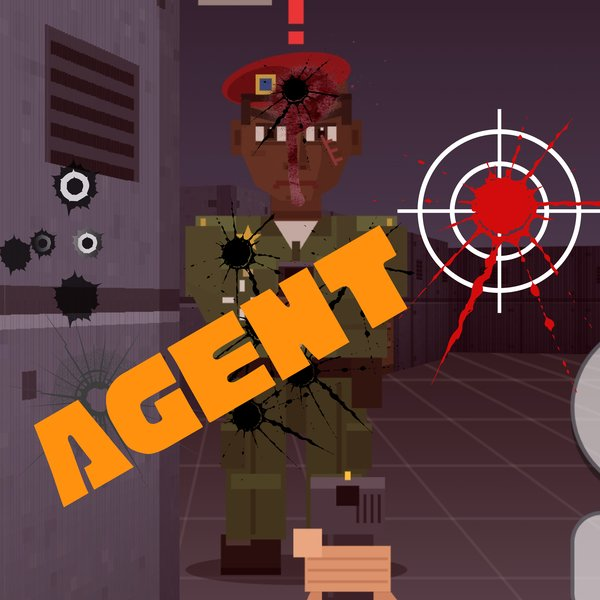
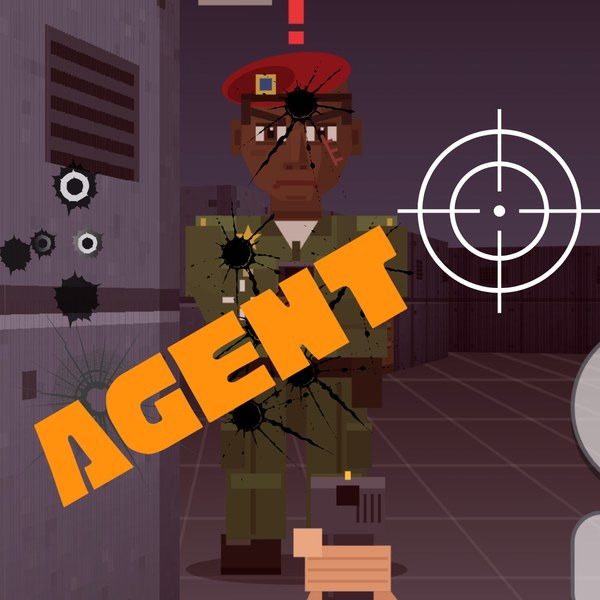
Agent Zero: clean cover without blood (cache v78)
Claude-Session: https://claude.ai/code/session_01Uwh8WoVMvagjCpomc5ZXTr

diff --git a/sw.js b/sw.js
@@ -1,5 +1,5 @@
 // Offline cache for Joystik Original Arcade (formerly Pocket Arcade). Bump VERSION whenever you add or change a game.
-const VERSION = "arcade-v77";
+const VERSION = "arcade-v78";
 const FILES = [
  "./",
  "./art/agent-zero.jpg",
